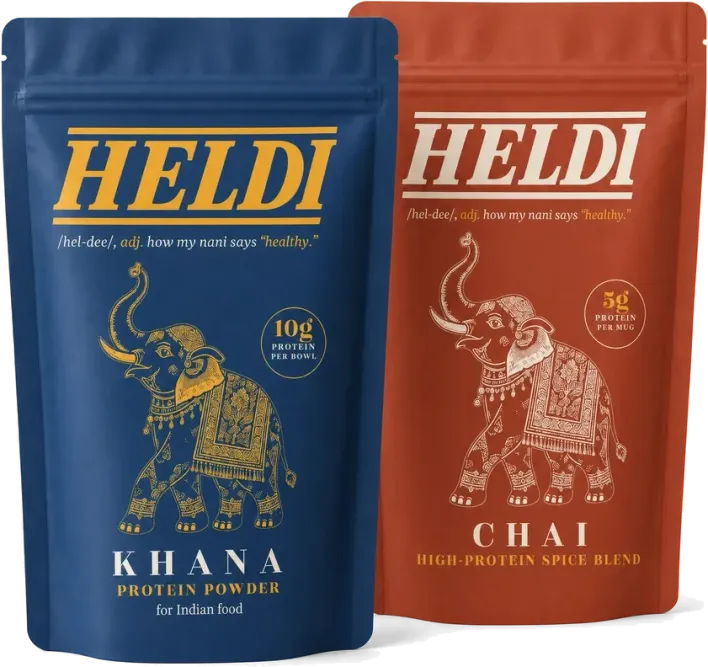
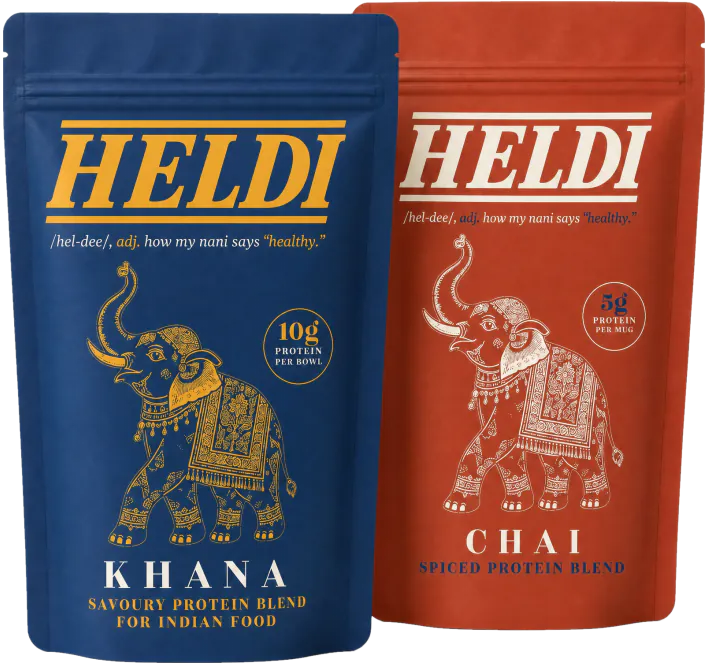
Show the round-16 pouches in the new homepage hero
Main's redesigned hero reads hero-pair-cutout.webp, cut on 30 Sep from the
old fronts, so it still showed PROTEIN POWDER and HIGH-PROTEIN SPICE BLEND.
It is recut from the new hero master: same 708x667, same framing and
transparency, clean on the gold page and the white card. IMAGE_VERSION
goes to ink-blue-14 so the optimiser drops the cached cut.

diff --git a/components/heldi-homepage.tsx b/components/heldi-homepage.tsx
@@ -224,7 +224,7 @@ const HERO_SHOWCASE_PILLS: {
   }
 ];
 
-const IMAGE_VERSION = "ink-blue-13";
+const IMAGE_VERSION = "ink-blue-14";
 const IMAGE_BASE = "/images/variants/ink-blue";
 
 function imageSrc(path: string) {
